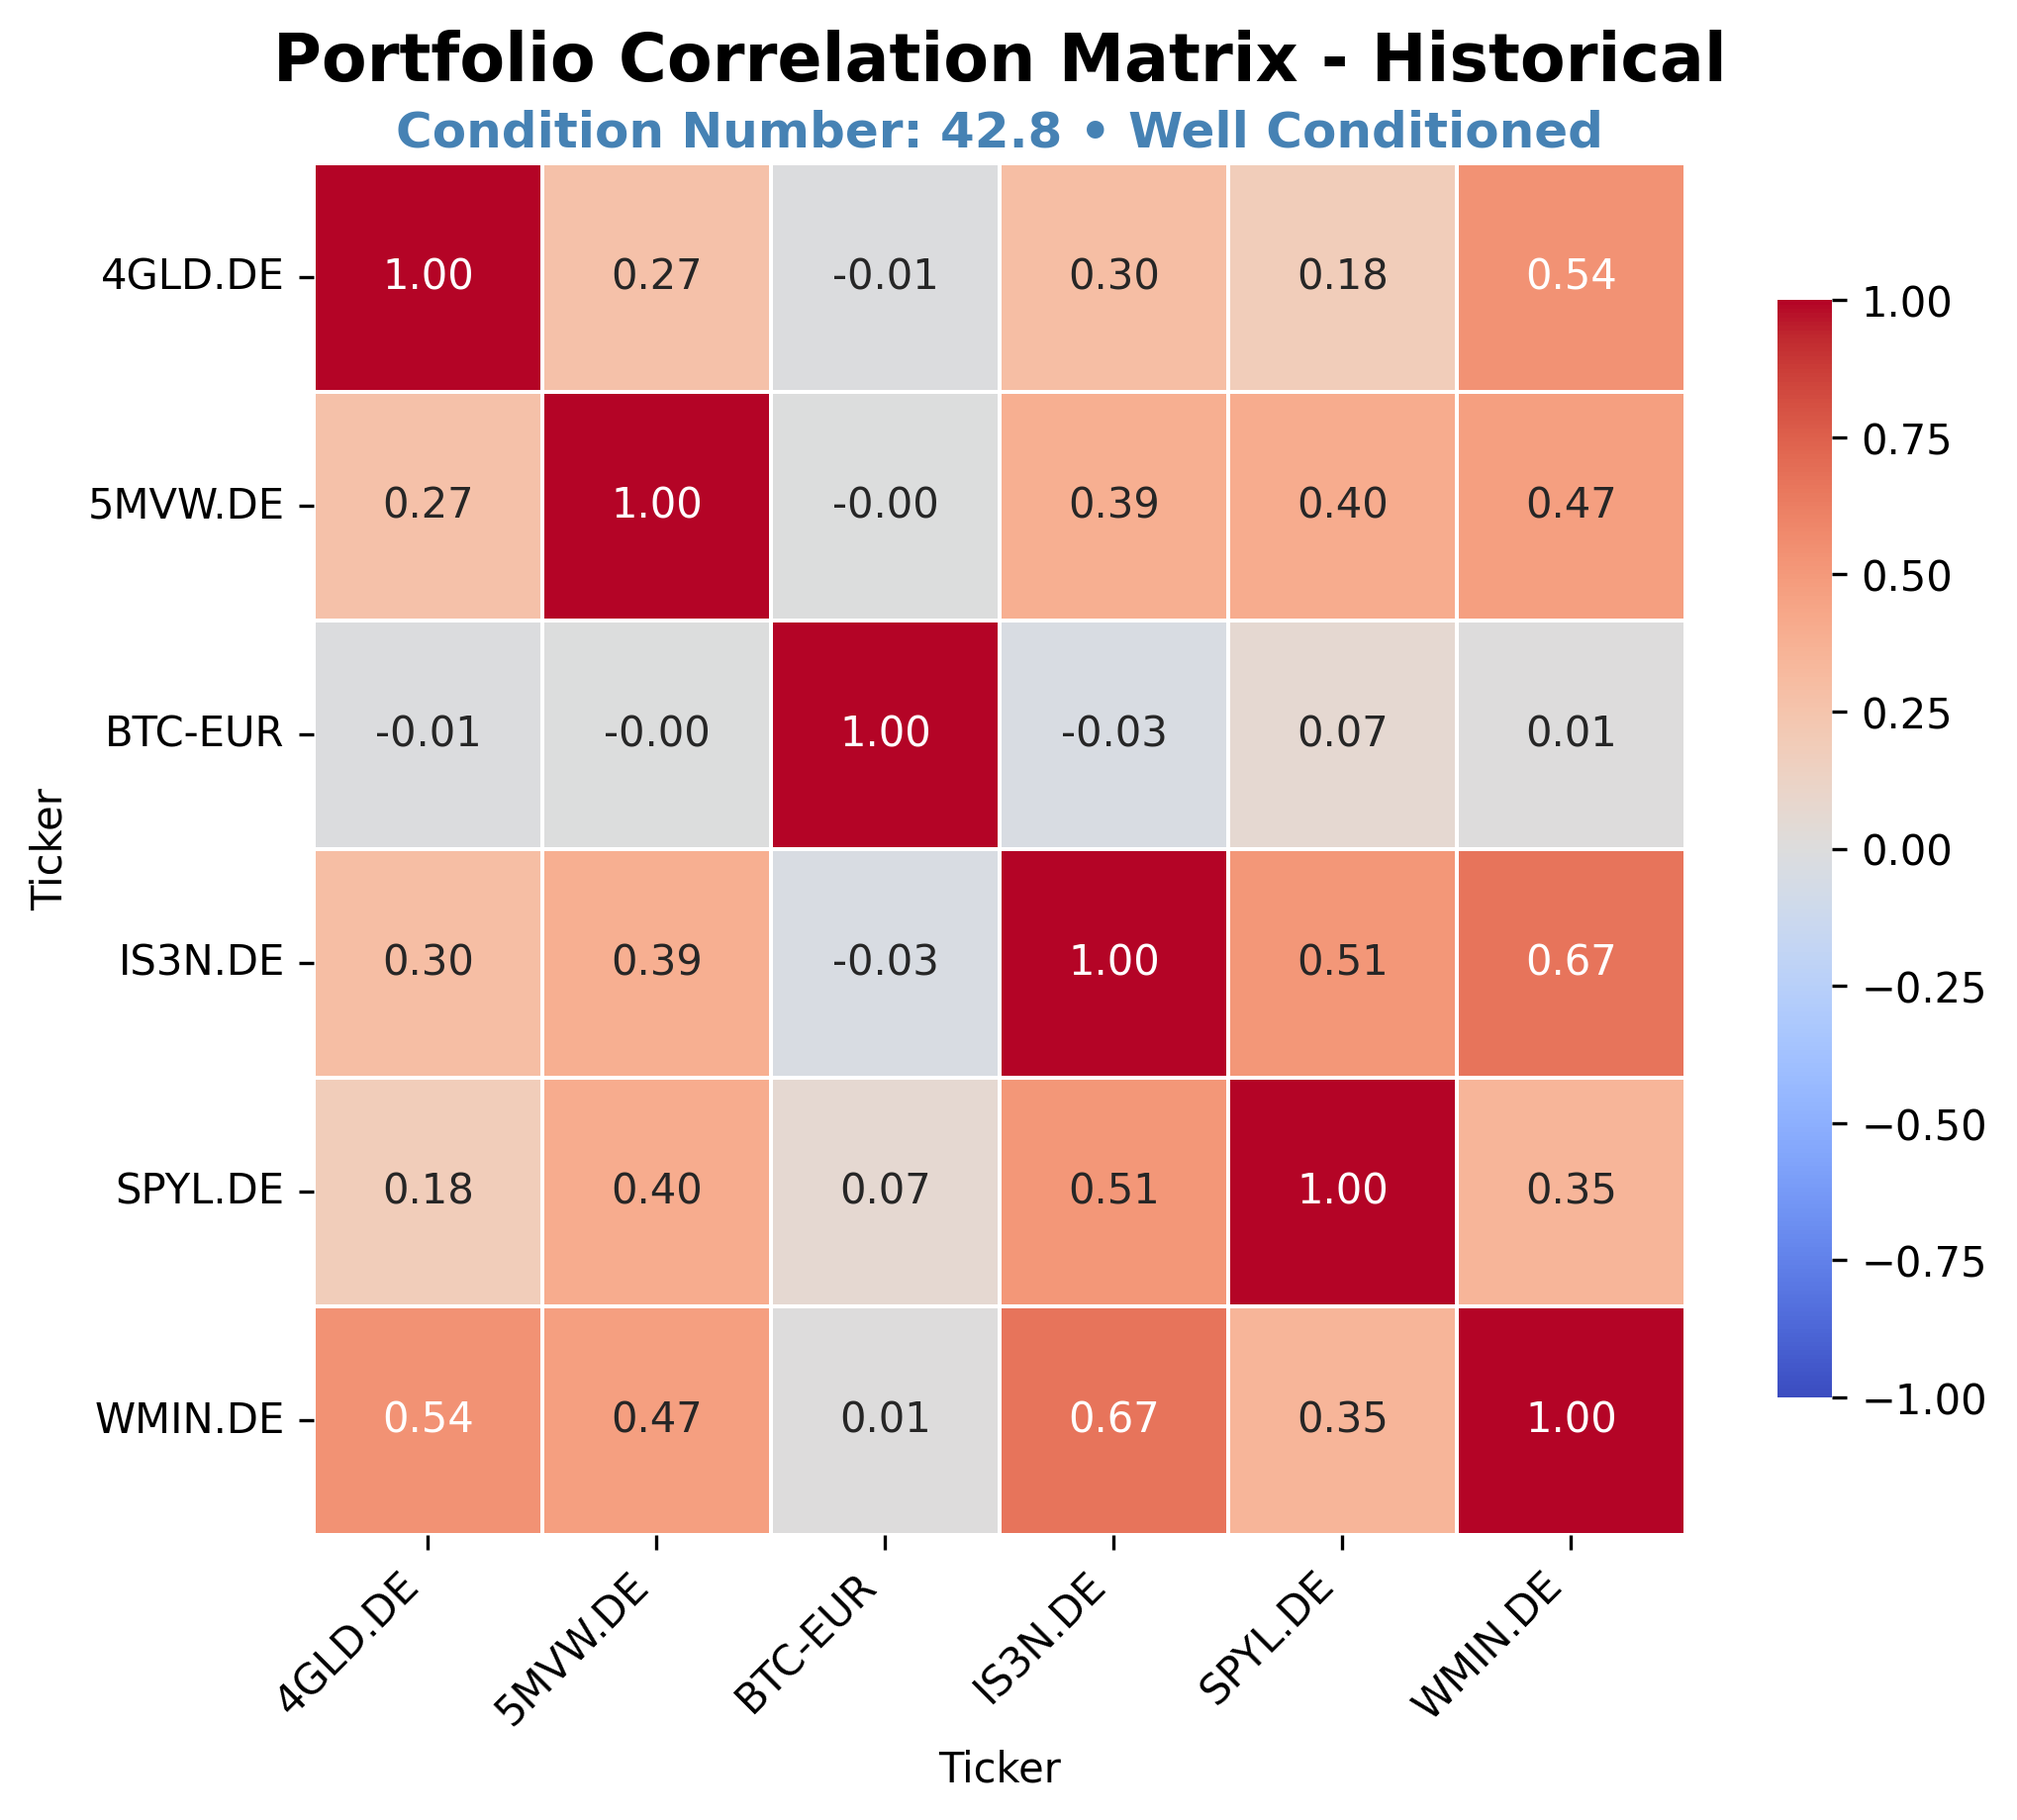
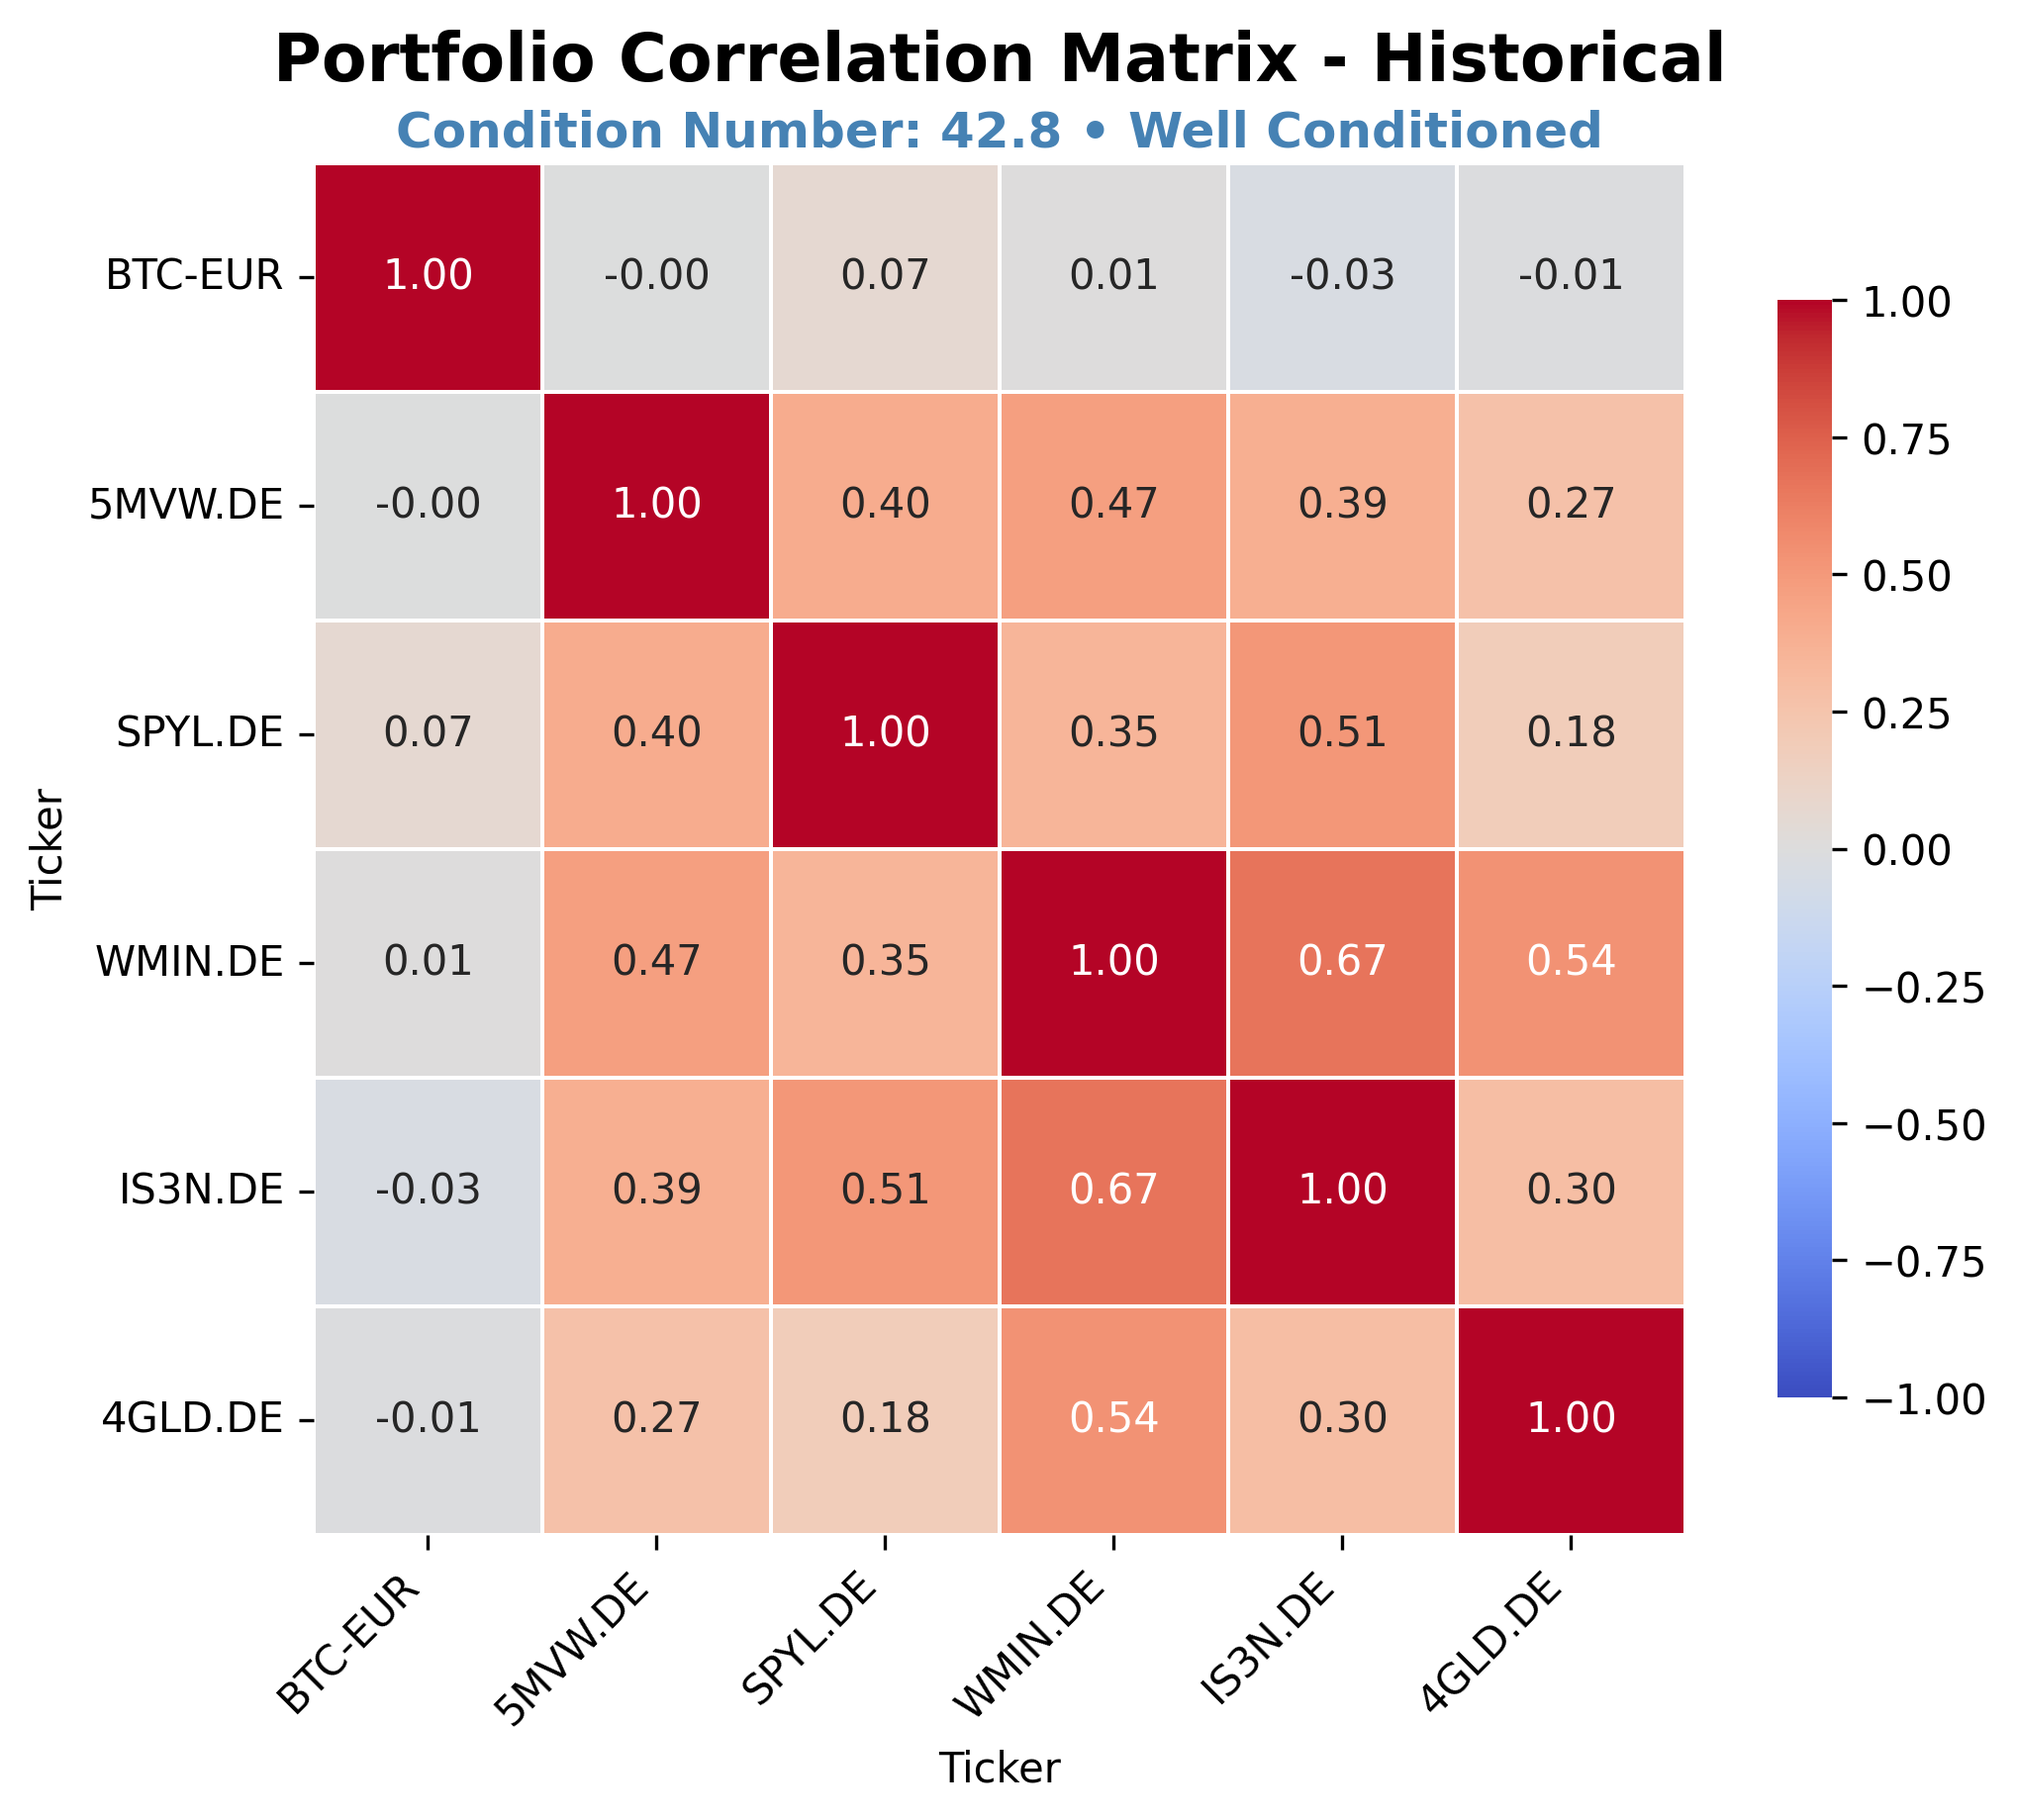
Fix ticker ordering consistency in data pipeline
Preserve input ticker order from portfolio definitions through Yahoo Finance data fetching. Previously yfinance returned alphabetically sorted columns causing misalignment between tickers and weights, breaking portfolio calculations
- Add column reordering in fetch_close_prices() to match input ticker sequence
- Ensure consistent ticker-weight alignment across simulation and frontend - Support both default and custom portfolio ticker ordering
- Update tests to match the latests code changes

diff --git a/backend/simulation/tests/test_monte_carlo.py b/backend/simulation/tests/test_monte_carlo.py
@@ -225,7 +225,7 @@ class TestAnalyzePortfolioRiskFactors:
         """Test eigenvalues are sorted from largest to smallest"""
         # Arrange: Simple 2x2 matrix with known eigenvalues
         cov_matrix = pd.DataFrame(
-            [[2.0, 0.0], [0.0, 1.0]],  # Eigenvalues should be 2.0 and 1.0
+            [[2.0, 0.0], [0.0, 1.0]],  # Eigenvalues should be 2.0 and 1.0, scaled to 20000.0 and 10000.0
             index=["A", "B"],
             columns=["A", "B"],
         )
@@ -236,17 +236,17 @@ class TestAnalyzePortfolioRiskFactors:
         # Assert
         eigenvalues = result["eigenvalues"]
         assert eigenvalues[0] > eigenvalues[1]  # Sorted descending
-        assert eigenvalues[0] == pytest.approx(2.0, abs=0.01)
-        assert eigenvalues[1] == pytest.approx(1.0, abs=0.01)
+        assert eigenvalues[0] == pytest.approx(20000.0, abs=0.01)  # 2.0 * 10000
+        assert eigenvalues[1] == pytest.approx(10000.0, abs=0.01)  # 1.0 * 10000
 
     def test_dominant_factors_filtering(self):
         """Test only eigenvalues > 1.0 are considered dominant"""
-        # Arrange: Matrix with one dominant factor (eigenvalue > 1) and one not
+        # Arrange: Matrix with dominant factors (eigenvalue > 1.0 after 10000x scaling) and one not
         cov_matrix = pd.DataFrame(
             [
                 [3.0, 0.0, 0.0],
-                [0.0, 1.5, 0.0],  # Both > 1.0 = dominant
-                [0.0, 0.0, 0.5],  # < 1.0 = not dominant
+                [0.0, 1.5, 0.0],  # Both > 1.0 after scaling = dominant
+                [0.0, 0.0, 0.00005],  # Becomes 0.5 after scaling < 1.0 = not dominant
             ],
             index=["A", "B", "C"],
             columns=["A", "B", "C"],
@@ -257,11 +257,11 @@ class TestAnalyzePortfolioRiskFactors:
 
         # Assert
         dominant_loadings = result["dominant_factor_loadings"]
-        # Should only have 2 factors (eigenvalues 3.0 and 1.5)
+        # Should only have 2 factors (eigenvalues 3.0*10000 and 1.5*10000 after scaling)
         assert len(dominant_loadings) == 2
         assert 1 in dominant_loadings  # PC1
         assert 2 in dominant_loadings  # PC2
-        assert 3 not in dominant_loadings  # PC3 (eigenvalue 0.5 < 1.0)
+        assert 3 not in dominant_loadings  # PC3 (eigenvalue 0.00005*10000 = 0.5 < 1.0)
 
     def test_asset_contribution_calculation(self):
         """Test asset contribution percentages in risk factors"""

diff --git a/backend/optimization/tests/test_api.py b/backend/optimization/tests/test_api.py
@@ -166,13 +166,14 @@ class TestFastApiIntegration:
     def test_default_portfolio_optimization_endpoint(self, mock_optimize):
         mock_optimize.return_value = {
             "frontier_points": [
-                {"return_pct": 8.0, "volatility_pct": 12.0, "weights_pct": [60.0, 40.0]}
+                {"return_pct": 8.0, "volatility_pct": 12.0, "weights_pct": [60.0, 40.0], "tickers": ["BTC-EUR", "SPYL.DE"]}
             ],
             "max_sharpe_point": {
                 "return_pct": 9.0,
                 "volatility_pct": 13.0,
                 "weights_pct": [55.0, 45.0],
                 "sharpe_ratio": 0.7,
+                "tickers": ["BTC-EUR", "SPYL.DE"],
             },
             "risk_free_rate_pct": 2.5,
         }
@@ -189,13 +190,14 @@ class TestFastApiIntegration:
     def test_custom_portfolio_optimization_endpoint(self, mock_optimize):
         mock_optimize.return_value = {
             "frontier_points": [
-                {"return_pct": 7.5, "volatility_pct": 11.0, "weights_pct": [58.0, 42.0]}
+                {"return_pct": 7.5, "volatility_pct": 11.0, "weights_pct": [58.0, 42.0], "tickers": ["BTC-EUR", "SPYL.DE"]}
             ],
             "max_sharpe_point": {
                 "return_pct": 8.6,
                 "volatility_pct": 12.1,
                 "weights_pct": [60.0, 40.0],
                 "sharpe_ratio": 0.72,
+                "tickers": ["BTC-EUR", "SPYL.DE"],
             },
             "risk_free_rate_pct": 2.0,
         }

diff --git a/backend/core/utils.py b/backend/core/utils.py
@@ -55,6 +55,17 @@ def fetch_close_prices(
     # yfinance now defaults auto_adjust=True (adjusted prices). Set explicitly for clarity and to silence FutureWarning.
     data = yf.download(tickers, start=start, end=end, auto_adjust=True)
 
+    # Reorder MultiIndex columns to match input ticker order
+    if isinstance(data.columns, pd.MultiIndex) and data.columns.nlevels == 2:
+        data = data.reindex(
+            columns=[
+                (m, t)
+                for m in data.columns.levels[0]
+                for t in tickers
+                if (m, t) in data.columns
+            ]
+        )
+
     if data is None or data.empty or "Close" not in data:
         log_error(
             "Yahoo Finance returned no data",
